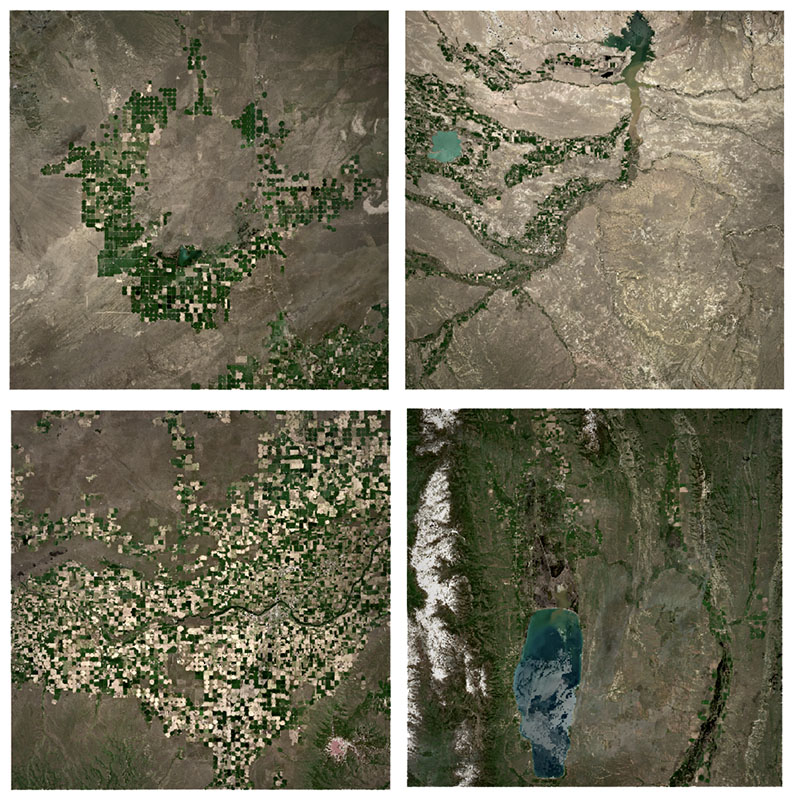
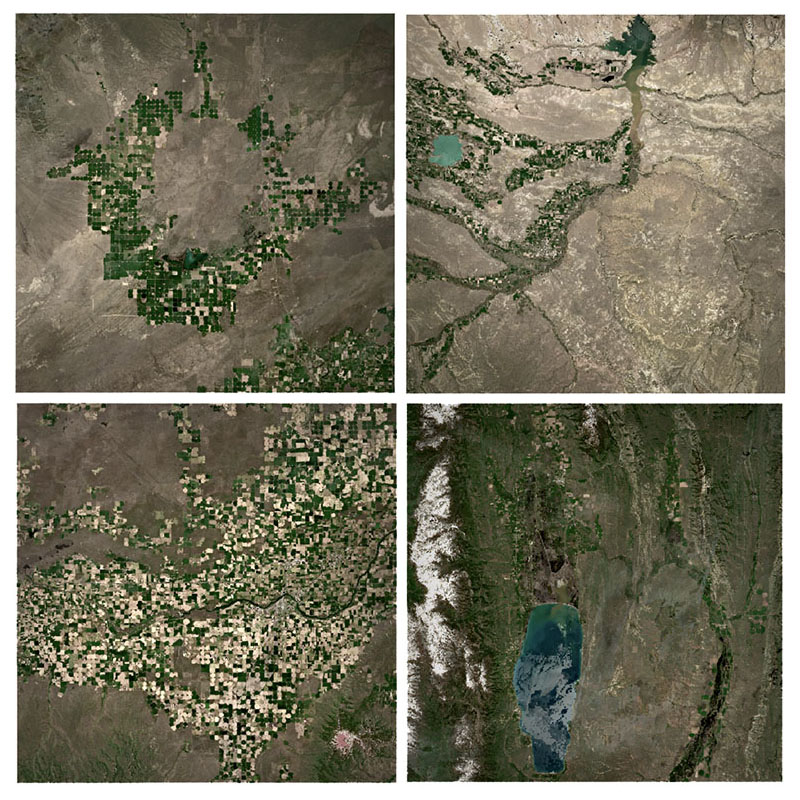
Update Covers

diff --git a/app/_includes/blog-bits/covers/covers_talking-map.html b/app/_includes/blog-bits/covers/covers_talking-map.html
@@ -1,7 +1,7 @@
 <script>
   const talkingCont = document.querySelector('.talking-map')
   const validSqrs = ['0000', '0001', '0002', '0003', '0100', '0101', '0102', '0103', '0200', '0201', '0202', '0203', '0300', '0301', '0302', '0303', '0501', '0620', '0809', '0919', '1112', '1310', '1513', '1517', '0502', '0621', '0810', '0920', '1113', '1311', '1514', '0503', '0622', '0811', '1001', '1114', '1312', '1515', '0504', '0701', '0812', '1002', '1115', '1313', '1516', '0505', '0702', '0813', '1003', '1116', '1314', '0506', '0703', '0814', '1004', '1117', '1315', '1604', '0507', '0704', '0815', '1005', '1201', '1402', '1605', '0508', '0705', '0816', '1006', '1202', '1403', '1606', '0509', '0706', '0817', '1007', '1203', '1404', '1607', '0510', '0707', '0818', '1008', '1204', '1405', '1608', '0511', '0708', '0819', '1009', '1205', '1406', '1609', '0512', '0709', '0820', '1010', '1206', '1407', '1610', '0513', '0710', '0900', '1011', '1207', '1408', '1611', '0521', '0611', '0711', '0901', '1012', '1208', '1409', '1612', '0520', '0712', '0902', '1013', '1209', '1410', '1613', '1614', '0601', '0713', '0903', '1014', '1210', '1411', '1616', '0602', '0714', '0904', '1015', '1211', '1412', '1617', '0603', '0715', '0905', '1016', '1212', '1413', '0604', '0717', '0906', '1017', '1213', '1414', '0605', '0718', '0907', '1018', '1019', '1118', '1218', '1316', '1317', '1416', '1417', '1214', '1415', '0606', '0719', '0908', '1101', '1215', '1503', '1707', '0607', '0720', '0909', '1102', '1216', '1504', '1708', '0608', '0721', '0910', '1103', '1217', '1505', '1713', '1710', '1901', '1902', '0609', '0801', '0911', '1104', '1302', '1506', '1716', '0610', '0802', '0912', '1105', '1303', '1507', '1717', '0612', '0803', '0913', '1106', '1304', '1508', '0613', '0804', '0914', '1107', '1305', '1509', '1808', '1809', '0614', '0805', '0915', '1108', '1306', '151', '', '1818', '0806', '0916', '1109', '1307', '1510', '1709', '1817', '0807', '0917', '1110', '1308', '1511', '0619', '0808', '0918', '1111', '1309', '1512']
-  const flipSquares = ['0919', '0710', '0503', '1505', '1018', '1513', '1605', '1613', '0720', '0609', '1107', '1305']
+  const flipSquares = ['0919', '0710', '0503', '1018', '1513', '1605', '1613', '0720', '0609', '1107', '1305']
 
   window.onload(makeTalkMap())
 

diff --git a/app/_includes/blog-bits/covers/covers_talking-style.html b/app/_includes/blog-bits/covers/covers_talking-style.html
@@ -16,7 +16,7 @@
     height: calc((98%  / 23));
     background-color: #222;
     display: inline-block;
-    border: 0.5px solid black;
+    border: 0.5px solid rgba(0,0,0,0);
     box-sizing: border-box;
     background-size: cover;
     background-repeat: no-repeat;
@@ -39,11 +39,20 @@
     z-index: 9999;
   }
 
+  .talkingSquareFocus:hover .flipInner_flip_1, 
+  .talkingSquareFocus:hover .flipInner_flip_2, 
+  .talkingSquareFocus:hover .flipInner_flip_3, 
+  .talkingSquareFocus:hover .flipInner_flip_4, 
+  .talkingSquareFocus:hover .flipInner_flip_5, 
+  .talkingSquareFocus:hover .flipInner_flip_6 {
+    animation: rotation_7 1s normal forwards;
+  }
+
   .flipContainer {
     background-color: transparent;
     width: calc((100%  / 23));
     height: calc((98%  / 23));
-    border: 1px solid black;
+    border: 0.5px solid rgba(0,0,0,0);
     box-sizing: border-box;
     perspective: 600px;
     -webkit-box-shadow: inset 0 0 10px rgba(0,0,0,0.5);
@@ -67,6 +76,8 @@
   .flipInner_flip_4 { animation: rotation_4 15s infinite linear; }
   .flipInner_flip_5 { animation: rotation_5 15s infinite linear; }
   .flipInner_flip_6 { animation: rotation_6 15s infinite linear; }
+
+
 
   .flipFront, .flipBack {
     position: absolute;
@@ -150,7 +161,6 @@
     100% { transform: rotateY(359deg); }
   }
 
-
   @keyframes rotation_6 {
     0% { transform: rotateY(0deg); }
     65% { transform: rotateY(0deg); }
@@ -158,5 +168,10 @@
     90% { transform: rotateY(180deg); }
     95% { transform: rotateY(359deg); }
     100% { transform: rotateY(359deg); }
+  }
+
+  @keyframes rotation_7 {
+    0% { transform: rotateyY(0deg); }
+    100% { transform: rotateY(180deg); }
   }
 </style>

diff --git a/app/_includes/blog-bits/covers/covers_styles.html b/app/_includes/blog-bits/covers/covers_styles.html
@@ -5,10 +5,50 @@
   }
 
   .album img {
+    position: relative;
     max-width: 100%;
     width: 700px;
     box-shadow: 0 2px 16px rgba(0, 0, 0, 0.8);
   }
+
+  .album-r fig::after {
+    z-index: -1;
+    content: "";
+    position: absolute;
+    height: 100%;
+    width: 148px;
+    top: 0;
+    bottom: 0;
+    background-image: url("./../../assets/graphics/posts/19-album/vinyl.png");
+    background-size: contain;
+    background-repeat-x: no-repeat;
+  }
+
+  .album-l fig::before {
+    content: "";
+    position: absolute;
+    height: 100%;
+    width: 148px;
+    top: 0;
+    bottom: 0;
+    background-image: url("./../../assets/graphics/posts/19-album/vinyl.png");
+    background-size: contain;
+    background-repeat-x: no-repeat;
+    transform: rotate(180deg);
+    margin-left: -80px;
+  }
+
+/*  .velvetGoldmine::after {
+    content: "";
+    position: absolute;
+    height: 100%;
+    width: 148px;
+    top: 0;
+    bottom: 0;
+    background-image: url("./../../assets/graphics/posts/19-album/vinyl.png");
+    background-size: contain;
+    background-repeat-x: no-repeat;
+  }*/
 
   .londonMap {
     box-shadow: 0 2px 16px rgba(0, 0, 0, 0.8);

diff --git a/app/_posts/0000-21-4-covers.md b/app/_posts/0000-21-4-covers.md
@@ -22,7 +22,7 @@ centerAlign: true
 
 ---
 
-{% include postimg.html imgsrc="posts/19-album/covers.jpg" full="true" class="black-border introalbum album" %}
+{% include postimg.html imgsrc="posts/19-album/covers.jpg" full="true" class="black-border introalbum album album-r" %}
 
 Joy Divison's Unknown Pleasures simple and beautiful cover has led to great cartographic pastiches.
 
@@ -264,12 +264,12 @@ Still, what fun to see how far a concept can go.
 </div>
 {:/}
 
-<!-- {% include blog-bits/covers/covers_rainbow-map.html %}
- -->{% include blog-bits/covers/covers_styles.html %}
+{% include blog-bits/covers/covers_rainbow-map.html %}
+{% include blog-bits/covers/covers_styles.html %}
 {% include blog-bits/covers/covers_talking-map.html %}
 {% include blog-bits/covers/covers_talking-style.html %}
-<!-- {% include blog-bits/covers/covers_calling-map.html %}
- -->{% include blog-bits/covers/covers_calling-style.html %}
+{% include blog-bits/covers/covers_calling-map.html %}
+{% include blog-bits/covers/covers_calling-style.html %}
 
 <script>
   const peelMe = document.querySelector('.peelSlowly')
